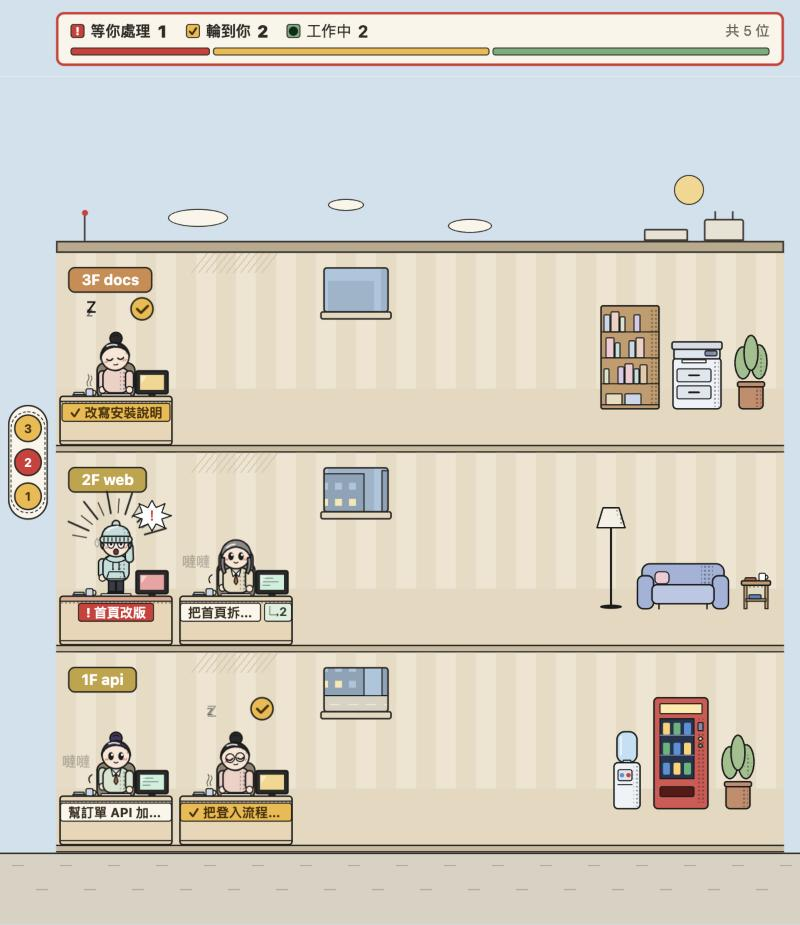
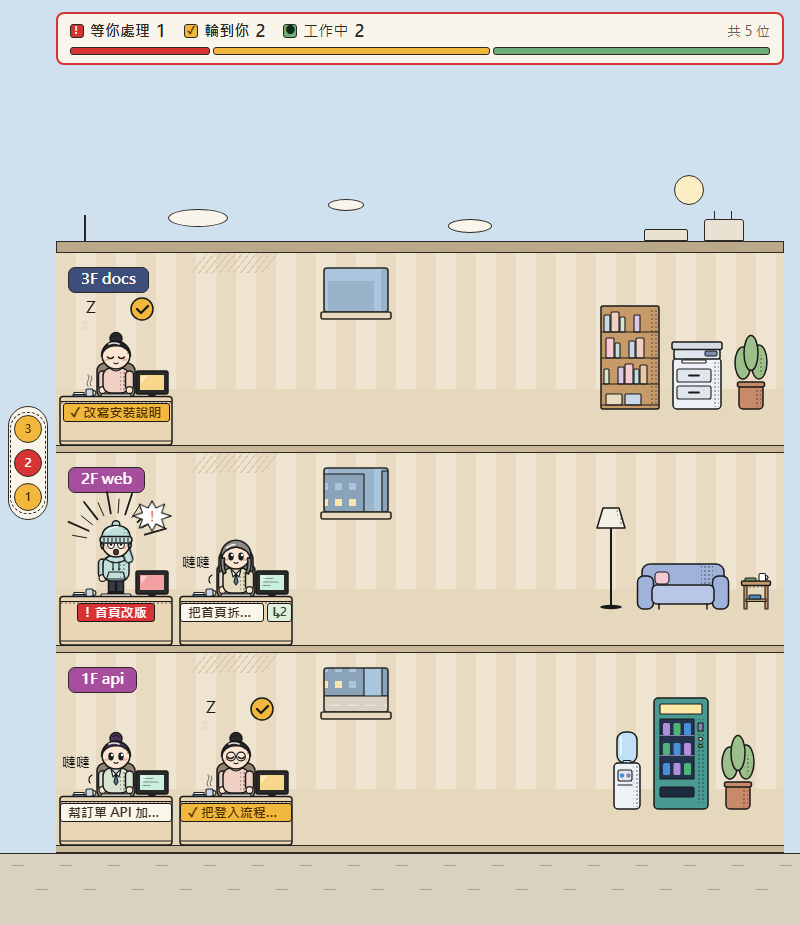
feat: 紅色和琥珀色只給狀態用
- 新增 test/state-colors.test.ts：抽出人物 SVG（所有外觀組合）、環境 SVG、theme.css 與髮色／衣服色／專案色表的 hex 色，色相離 --waiting／--turn 20° 內、彩度 ≥ 0.55 就失敗；環境 SVG 不能引用狀態色變數，building.css 只有名牌可以
- 專案色換掉橘、金黃、磚紅（改成深藍、洋紅、石板灰），髮色換掉赭紅、金棕（改成深藍、深青）
- 販賣機機身改藍綠、取物口改深藍、零食不用金黃；飲水機按鈕改鋼灰；拿掉天線紅燈和等你處理桌面的紅條；邊桌的書、領帶、張嘴的顏色避開紅
- 太陽和月亮改用自己的 --sun，不借 --screen-turn
- design.md 補上這條規則，README 日夜截圖重拍
- hook 測試「500 ms 內結束」的 node 啟動寬限從 300 放寬到 700 ms：多了一個測試檔後，全套平行跑時啟動常被拖到 0.8–0.97 秒

diff --git a/test/state-colors.test.ts b/test/state-colors.test.ts
@@ -1,0 +1,72 @@
+import { readFileSync } from 'node:fs';
+import { expect, test } from 'vitest';
+import { avatarSvg, figureSvg } from '../web/src/figure.js';
+import { defsSvg } from '../web/src/objects.js';
+import { HAIR_COLORS, HAIR_STYLES, OUTFIT_COUNT, PROJECT_COLORS, SHIRT_COLORS, type Look } from '../web/src/view.js';
+
+// 紅色只代表「等你處理」、琥珀色只代表「輪到你」：其他地方的 hex 色不能和這兩色同色相又夠鮮豔
+const THEME = readFileSync('web/src/styles/theme.css', 'utf8');
+/** 只有這些主題變數可以是狀態色 */
+const STATE_VARS = ['--waiting', '--turn', '--screen-waiting', '--screen-turn'];
+
+const rgb = (hex: string): [number, number, number] => {
+  const h = hex.length === 4 ? [...hex.slice(1)].map((c) => c + c).join('') : hex.slice(1, 7);
+  return [0, 2, 4].map((i) => parseInt(h.slice(i, i + 2), 16) / 255) as [number, number, number];
+};
+/** HSV 的色相（度）與彩度（0–1） */
+const hsv = (hex: string) => {
+  const [r, g, b] = rgb(hex), max = Math.max(r, g, b), d = max - Math.min(r, g, b);
+  const h = d === 0 ? 0 : max === r ? ((g - b) / d) % 6 : max === g ? (b - r) / d + 2 : (r - g) / d + 4;
+  return { hue: (h * 60 + 360) % 360, sat: max === 0 ? 0 : d / max };
+};
+const themeVar = (name: string) => THEME.match(new RegExp(`(?<![\\w-])${name}: (#[0-9a-f]+);`, 'i'))![1]!;
+const STATE_HUES = [themeVar('--waiting'), themeVar('--turn')].map((c) => hsv(c).hue);
+/** 色相離 --waiting 或 --turn 20° 內、彩度 ≥ 0.55 */
+const isStateLike = (hex: string) => {
+  const { hue, sat } = hsv(hex);
+  return sat >= 0.55 && STATE_HUES.some((s) => Math.min(Math.abs(hue - s), 360 - Math.abs(hue - s)) <= 20);
+};
+const hexes = (s: string) => [...new Set(s.match(/#[0-9a-f]{8}\b|#[0-9a-f]{6}\b|#[0-9a-f]{3}\b/gi) ?? [])];
+
+const looks: Look[] = [];
+for (let c = 0; c < HAIR_COLORS.length; c++)
+  for (let style = 0; style < HAIR_STYLES; style++)
+    for (let outfit = 0; outfit < OUTFIT_COUNT; outfit++)
+      for (const glasses of [false, true]) looks.push({ hair: c, shirt: c, style, outfit, glasses });
+
+test('判斷式抓得到紅與琥珀、放過淡色和暗色', () => {
+  for (const c of ['#d63434', '#f2b83d', '#d9534f', '#c99a4a', '#d08a4a']) expect(isStateLike(c), c).toBe(true);
+  for (const c of ['#fbe6d4', '#ffd98a', '#4f86b8', '#6fae7a', '#2a2a2a']) expect(isStateLike(c), c).toBe(false);
+});
+
+test('人物 SVG（所有外觀組合）沒有狀態色', () => {
+  const found = new Set(looks.flatMap((l) => [...hexes(figureSvg(l)), ...hexes(avatarSvg(l))]).filter(isStateLike));
+  expect([...found]).toEqual([]);
+});
+
+test('環境 SVG 沒有狀態色，也不引用狀態色變數', () => {
+  const s = defsSvg();
+  expect(hexes(s).filter(isStateLike)).toEqual([]);
+  expect(s).not.toMatch(/var\(--(waiting|turn)\)/);
+});
+
+test('主題 CSS：只有狀態色變數是狀態色', () => {
+  const bad = [...THEME.matchAll(/(--[\w-]+): (#[0-9a-f]+);/gi)].filter(([, n, c]) => !STATE_VARS.includes(n!) && isStateLike(c!)).map(([d]) => d);
+  expect(bad).toEqual([]);
+});
+
+test('髮色、衣服色、專案色三張表沒有狀態色', () => {
+  expect([...HAIR_COLORS, ...SHIRT_COLORS, ...PROJECT_COLORS].filter(isStateLike)).toEqual([]);
+});
+
+test('大樓外殼（building.css）只有名牌用狀態色變數', () => {
+  const css = readFileSync('web/src/styles/building.css', 'utf8').replace(/\/\*[\s\S]*?\*\//g, '');
+  const users = [...css.matchAll(new RegExp(`([^{}]*)\\{[^}]*var\\((${STATE_VARS.join('|')})\\)[^}]*\\}`, 'g'))].map((m) => m[1]!.trim());
+  for (const sel of users) expect(sel).toMatch(/^\.plate\b/);
+});
+
+test('專案色 8 個，兩兩分得出來', () => {
+  expect(PROJECT_COLORS).toHaveLength(8);
+  const dist = (a: string, b: string) => Math.hypot(...rgb(a).map((v, i) => (v - rgb(b)[i]!) * 255));
+  for (let i = 0; i < 8; i++) for (let j = i + 1; j < 8; j++) expect(dist(PROJECT_COLORS[i]!, PROJECT_COLORS[j]!), `${PROJECT_COLORS[i]} ${PROJECT_COLORS[j]}`).toBeGreaterThan(35);
+});

diff --git a/web/src/objects.ts b/web/src/objects.ts
@@ -75,9 +75,8 @@ function desk(st: DeskState): string {
     + rect(-15, -51, 30, 2.5, 1, 'mk-thin', fill('var(--plate)'));
   if (st === 'idle') o += path('M-28 -58.5 q-2 -3 0 -6 q2 -3 0 -6 M-25 -59 q-2 -2.5 0 -5 q2 -2.5 0 -5', undefined,
     'fill:none;stroke:var(--fx);stroke-width:1;stroke-linecap:round;opacity:.6'); // 蒸氣
-  // 桌子本體：桌面（等你處理混一點紅）、桌板下緣的網點陰影、底邊踢腳線
+  // 桌子本體：桌面、桌板下緣的網點陰影、底邊踢腳線
   o += rect(-56, -48.5, 112, 48.5, 3, 'mk', fill('var(--desk)'));
-  if (st === 'waiting') o += rect(-55.25, -47.75, 110.5, 4.25, 2, undefined, 'fill:var(--waiting);opacity:.3');
   o += tone(-55, -43.5, 110, 2.5) + line('M-55 -43.5 H55', 'mk-thin') + line('M-55 -4 H55', 'mk-thin');
   return o;
 }
@@ -168,10 +167,10 @@ const waterCooler = () =>
   + rect(-4, -48.5, 8, 3, 1, 'mk-thin', fill('#bfe0f5'))
   + rect(-13, -46, 26, 46, 4, 'mk', fill('#eef2f6')) + tone(6.5, -44, 5, 42)
   + rect(-9, -39, 14, 11, 2, 'mk-thin', fill('#dfe6ee'))
-  + circle(-5, -33.5, 2.2, undefined, fill('#4a90d9')) + circle(1.5, -33.5, 2.2, undefined, fill('var(--waiting)'))
+  + circle(-5, -33.5, 2.2, undefined, fill('#4a90d9')) + circle(1.5, -33.5, 2.2, undefined, fill('#8089ad'))
   + line('M-9 -24 H5', 'mk-thin');
 
-const SNACKS = ['#ffd166', '#4fb477', '#4a90d9'];
+const SNACKS = ['#b38fd9', '#4fb477', '#4a90d9'];
 /** 販賣機 56×112：燈箱（夜晚亮起、周圍暖光）、商品窗、投幣口與按鈕、取物口 */
 function vending(): string {
   let snacks = '';
@@ -180,7 +179,7 @@ function vending(): string {
     snacks += rect(-18 + col * 10.5, -86 + row * 20, 7, 12, 1.5, undefined, fill(SNACKS[(col + row) % 3]!));
   }
   return night(glow(0, -56, 46, 56))
-    + rect(-27, -111, 54, 111, 4, 'mk', fill('#d9534f'))
+    + rect(-27, -111, 54, 111, 4, 'mk', fill('#4a9a94'))
     + rect(-21, -105, 42, 10, 1, 'mk-thin', fill('#ffe9a8'))
     + night(rect(-21, -105, 42, 10, 1, 'mk-thin', fill('#fff3c4')))
     + rect(-21, -90, 34, 60, 0, 'mk-thin', fill('#24324f')) + snacks
@@ -188,7 +187,7 @@ function vending(): string {
     + tone(15, -90, 10, 84)
     + rect(17, -86, 5, 8, 1, 'mk-thin', DARK_STEEL)
     + circle(19.5, -70, 1.8, 'mk-thin', fill('#ffe9a8')) + circle(19.5, -63, 1.8, 'mk-thin', fill('#4fb477'))
-    + rect(-21, -22, 34, 10, 2, 'mk-thin', fill('#5a1414'));
+    + rect(-21, -22, 34, 10, 2, 'mk-thin', fill('#1d2a3f'));
 }
 
 /** 盆栽 34×74：三片大葉、暗面網點、陶盆 */
@@ -251,7 +250,7 @@ const sideTable = () =>
   + rect(-10, -10, 20, 2.5, 0, 'mk-thin', fill('var(--wood)')) + rect(-7, -14, 12, 4, 1, 'mk-thin', fill('#4f86b8'))
   + tone(-9, -23.5, 18, 3)
   + rect(-14.5, -28, 29, 4.5, 1.5, 'mk', fill('var(--wood)'))
-  + rect(-11, -31, 11, 3, 1, 'mk-thin', fill('#c0583c'))
+  + rect(-11, -31, 11, 3, 1, 'mk-thin', fill('#6f9a5e'))
   + rect(3, -35.5, 6.5, 7.5, 1.5, 'mk-thin', WHITE) + line('M9.5 -33.5 q2.5 0 2.5 2 q0 2 -2.5 2', 'mk-thin');
 
 const DRAW: Record<ObjectId, () => string> = {

diff --git a/web/src/figure.ts b/web/src/figure.ts
@@ -93,7 +93,7 @@ const FACES = {
   work: ellipse(25, 29.5, 2.7, 4, undefined, INK) + ellipse(35, 29.5, 2.7, 4, undefined, INK)
     + circle(26, 28, 1.2, undefined, WHITE) + circle(36, 28, 1.2, undefined, WHITE) + line('M28 35.5 q2 1.6 4 0', 'mk-thin'),
   wait: ellipse(25, 29, 3.4, 4.5, 'mk-thin', WHITE) + ellipse(35, 29, 3.4, 4.5, 'mk-thin', WHITE)
-    + circle(25, 29.5, 1.3, undefined, INK) + circle(35, 29.5, 1.3, undefined, INK) + ellipse(30, 37, 2.4, 2.8, 'mk-thin', fill('#7a2e3a')),
+    + circle(25, 29.5, 1.3, undefined, INK) + circle(35, 29.5, 1.3, undefined, INK) + ellipse(30, 37, 2.4, 2.8, 'mk-thin', fill('#5c3038')),
   turn: line('M21.5 30 q3 3.2 6 0 M32.5 30 q3 3.2 6 0', 'mk') + line('M28 36 q2 1.4 4 0', 'mk-thin'),
 };
 const CHEEKS = path('M19 33.5 l1.6 -1.6 M21 33.5 l1.6 -1.6 M37.4 33.5 l1.6 -1.6 M39.4 33.5 l1.6 -1.6', undefined,
@@ -116,7 +116,7 @@ function body(look: Look): string {
     line('M25 42 Q30 46 35 42', 'mk-thin'),
     path('M20 44.5 Q22 40 30 40.5 Q38 40 40 44.5 Q30 51 20 44.5Z', 'mk-thin', S) + line('M27 47.5 v6.5 M33 47.5 v6.5', 'mk-thin')
       + circle(27, 54.5, 0.9, undefined, INK) + circle(33, 54.5, 0.9, undefined, INK) + line('M23 57 H37 L39.5 64 H20.5Z', 'mk-thin'),
-    path('M25 42 L30 47 L27 50Z M35 42 L30 47 L33 50Z', 'mk-thin', WHITE) + path('M30 47 l-2 8 l2 3 l2 -3z', 'mk-thin', fill('#c0583c')),
+    path('M25 42 L30 47 L27 50Z M35 42 L30 47 L33 50Z', 'mk-thin', WHITE) + path('M30 47 l-2 8 l2 3 l2 -3z', 'mk-thin', fill('#4f86b8')),
   ][look.outfit] ?? '';
   return g('body', rect(17, 41, 26, 25, 8, 'mk', S) + rect(34, 43, 7, 21, 0, 'tone') + outfit);
 }
@@ -192,7 +192,7 @@ const FX = {
     + g('burst', tag('polygon', { points: BURST.map((p) => p.join(',')).join(' '), class: 'mk-thin', style: WHITE })
       + text(BURST_C[0], BURST_C[1] + 5, 14, '！', fill('var(--waiting)'), undefined, 'middle')),
   turn: g('bubble', circle(BUBBLE.cx, BUBBLE.cy, BUBBLE.r, 'mk', fill('var(--turn)'))
-    + path(`M${BUBBLE.cx - 5} ${BUBBLE.cy} l4 4 l7 -7`, undefined, 'fill:none;stroke:#4a3000;stroke-width:2.3;stroke-linecap:round;stroke-linejoin:round'))
+    + path(`M${BUBBLE.cx - 5} ${BUBBLE.cy} l4 4 l7 -7`, undefined, 'fill:none;stroke:var(--fig-ink);stroke-width:2.3;stroke-linecap:round;stroke-linejoin:round'))
     + text(Z1.x, Z1.y, Z1.size, 'z', fill('var(--fx)'), 'z1') + text(Z2.x, Z2.y, Z2.size, 'Z', fill('var(--fx)'), 'z2'),
   in: sticker(STICK_IN),
   out: path(RISE, 'speed', FX_STROKE(1.4)) + sticker(STICK_OUT),

diff --git a/web/src/styles/building.css b/web/src/styles/building.css
@@ -7,7 +7,7 @@ body { margin: 0; min-height: 100vh; display: flex; flex-direction: column; back
 /* 天空：頁面底色。白天太陽與白雲、夜晚月牙與星星（building.ts 的 sky()），都貼著天空底部（屋頂上方），天空高時上面留空 */
 #building .sky { position: relative; overflow: hidden; flex: 1 0 72px; background: var(--page-bg); pointer-events: none; }
 .sky > div { position: absolute; box-sizing: border-box; }
-.sky .sun, .sky .moon { right: 12%; bottom: 36px; width: 30px; height: 30px; border: 1.4px solid var(--ink); border-radius: 50%; background: var(--screen-turn); }
+.sky .sun, .sky .moon { right: 12%; bottom: 36px; width: 30px; height: 30px; border: 1.4px solid var(--ink); border-radius: 50%; background: var(--sun); }
 /* 月牙：右上蓋一個天空色的圓（不描邊），只留左下的彎月 */
 .sky .moon { width: 27px; height: 27px; }
 .sky .moon::after { content: ''; position: absolute; left: 6.6px; top: -3.9px; width: 23px; height: 23px; border-radius: 50%; background: var(--page-bg); }
@@ -28,11 +28,6 @@ body { margin: 0; min-height: 100vh; display: flex; flex-direction: column; back
 .roof .tank::before { content: ''; position: absolute; left: 9px; top: -9px; width: 16px; height: 8px; border: solid var(--ink); border-width: 0 1.6px; }
 .roof .ac { right: 96px; width: 44px; height: 12px; border: 1.6px solid var(--ink); border-radius: 2px 2px 0 0; background: var(--elevator); }
 .roof .antenna { left: 28px; width: 1.6px; height: 26px; background: var(--ink); }
-/* 天線紅燈：只在夜晚每 1.8s 閃一次（減少動態時不閃） */
-.roof .antenna::after { content: ''; position: absolute; left: -2.2px; top: -5px; width: 6px; height: 6px; border-radius: 50%; background: var(--waiting); }
-:root[data-time="night"] .roof .antenna::after { animation: blink 1.8s steps(1) infinite; }
-@keyframes blink { 50% { opacity: .2; } }
-@media (prefers-reduced-motion: reduce) { :root[data-time="night"] .roof .antenna::after { animation: none; } }
 #building .floors { padding: 0 16px 0 56px; }
 /* 地面（高 72）：人行道、上緣墨線、兩排錯開的磚縫短線 */
 #building .ground { height: 72px; box-sizing: border-box; border-top: 1.6px solid var(--ink);

diff --git a/web/src/view.ts b/web/src/view.ts
@@ -2,7 +2,7 @@ import type { Assistant, Employee } from '../../src/state/types.js';
 
 /** 漫畫人物的衣服色與髮色（日夜相同），各 8 種 */
 export const SHIRT_COLORS: string[] = ['#c9d8e8', '#f1d0c4', '#d8e4cf', '#e8dcc0', '#d9c9e6', '#f3c9d2', '#bfe0dc', '#e9c9a8'];
-export const HAIR_COLORS: string[] = ['#2a2a2a', '#5a4030', '#3a3a4a', '#8a6a4a', '#a0522d', '#c99a4a', '#8d8a86', '#4a3560'];
+export const HAIR_COLORS: string[] = ['#2a2a2a', '#5a4030', '#3a3a4a', '#8a6a4a', '#2f4a6e', '#2f5f5a', '#8d8a86', '#4a3560'];
 
 const hash = (s: string): number => {
   let h = 0;
@@ -81,7 +81,7 @@ export const formatTime = (ms: number): string => {
   return `${String(d.getHours()).padStart(2, '0')}:${String(d.getMinutes()).padStart(2, '0')}`;
 };
 
-export const PROJECT_COLORS: string[] = ['#4f86b8', '#d08a4a', '#6f9a5e', '#8a74b0', '#c0688a', '#4a9a94', '#c4a23e', '#c0583c'];
+export const PROJECT_COLORS: string[] = ['#4f86b8', '#3d4f7a', '#6f9a5e', '#8a74b0', '#c0688a', '#4a9a94', '#a64d9e', '#6e7b8b'];
 
 // 名牌前綴：等你處理「! 」、輪到你「✓ 」
 export const platePrefix = (e: Employee): string => (e.status === 'waiting' ? '! ' : e.status === 'idle' ? '✓ ' : '');

diff --git a/test/view.test.ts b/test/view.test.ts
@@ -66,8 +66,8 @@ test('projectColor：同一個 key 永遠同色', () => {
   expect(PROJECT_COLORS.length).toBe(8);
 });
 
-test('PROJECT_COLORS：spec 色票的 8 種水彩色（照順序）', () => {
-  expect(PROJECT_COLORS).toEqual(['#4f86b8', '#d08a4a', '#6f9a5e', '#8a74b0', '#c0688a', '#4a9a94', '#c4a23e', '#c0583c']);
+test('PROJECT_COLORS：8 種專案色，沒有紅、橘、金黃（照順序）', () => {
+  expect(PROJECT_COLORS).toEqual(['#4f86b8', '#3d4f7a', '#6f9a5e', '#8a74b0', '#c0688a', '#4a9a94', '#a64d9e', '#6e7b8b']);
 });
 
 test('formatTime：HH:mm 補零', () => {

diff --git a/test/hook.test.ts b/test/hook.test.ts
@@ -37,7 +37,7 @@ test('伺服器沒開時 500 ms 內以結束碼 0 結束且沒有輸出', async 
   expect(r.status).toBe(0);
   expect(r.stdout).toBe('');
   expect(r.stderr).toBe('');
-  expect(Date.now() - t).toBeLessThan(500 + 300); // 500 ms 加上 node 啟動的寬限
+  expect(Date.now() - t).toBeLessThan(500 + 700); // 500 ms 加上 node 啟動的寬限（全套平行跑時啟動會被拖慢到約 0.9 秒）
 });
 
 test('stdin 不是 JSON 時以結束碼 0 結束且不送出請求', async () => {

diff --git a/web/src/building.ts b/web/src/building.ts
@@ -32,7 +32,7 @@ function sky(): HTMLElement {
   return el;
 }
 
-/** 最高樓上面的屋頂：女兒牆、水塔、冷氣機、閃燈天線（造型都在 CSS） */
+/** 最高樓上面的屋頂：女兒牆、水塔、冷氣機、天線（造型都在 CSS） */
 function roof(): HTMLElement {
   const el = div('roof');
   el.append(div('antenna'), div('ac'), div('tank'), div('parapet'));

diff --git a/web/src/styles/theme.css b/web/src/styles/theme.css
@@ -5,6 +5,7 @@
   --working: #6fae7a;
   --screen-turn: #f6d68a;
   --screen-waiting: #f2a0a0;
+  --sun: #fbeec4; /* 太陽和月亮：淡奶油色，不借狀態色 */
 }
 
 :root[data-time="day"] {

diff --git a/docs/design.md b/docs/design.md
@@ -76,6 +76,7 @@ Claude Code ─hook─▶ src/hook/send.ts ─POST /events─▶ src/server ─r
 
 - **會畫錯的計算都寫成不碰 DOM 的純函式**（`floors.ts`、`view.ts`、`figure.ts`、`objects.ts`、`theme.ts`），在 vitest 的 node 環境測試。DOM 模組（`building.ts`、`floor.ts`、`person.ts`、`card.ts`、`elevator.ts`）沒有自動測試，靠 `npm run simulate` 在瀏覽器裡看。
 - **SVG 顏色只能寫在 `style` 或 class**，不能寫成 `fill="…"`／`stroke="…"` 屬性，因為呈現屬性不接受 `var()`，日夜切換會失效。測試會檢查這件事。
+- **紅色和琥珀色只給狀態用**：環境、招牌專案色、髮色、衣服色都不能用，掃一眼才不會誤判誰在等你。狀態色只能寫在 `theme.css` 的狀態變數（`--waiting`、`--turn`、`--screen-waiting`、`--screen-turn`），大樓外殼的 CSS 只有名牌能引用。`test/state-colors.test.ts` 會抽出所有 hex 色，色相離這兩色 20° 內、HSV 彩度 ≥ 0.55 就算違規。
 - **人物的姿勢和漫符都交給 CSS**，依 `data-act`（work／up／idle）與 `data-fx`（in／out）切換。`person.ts` 只負責設屬性和計時。
 - **進出動畫放在 `.figure`，不放 `.fig`**，因為 `.fig` 的 `transform` 已經用在站起來。動畫要放在 `.person` 的子元素上，減少動態的規則才停得掉。`ENTER_MS`／`EXIT_MS` 要和 figure.css 的 keyframes 時間一致。
 - **退場用計時器，不用 `animationend`**：樓層的 DOM 被搬動時，動畫會被取消，`animationend` 就不會觸發。
